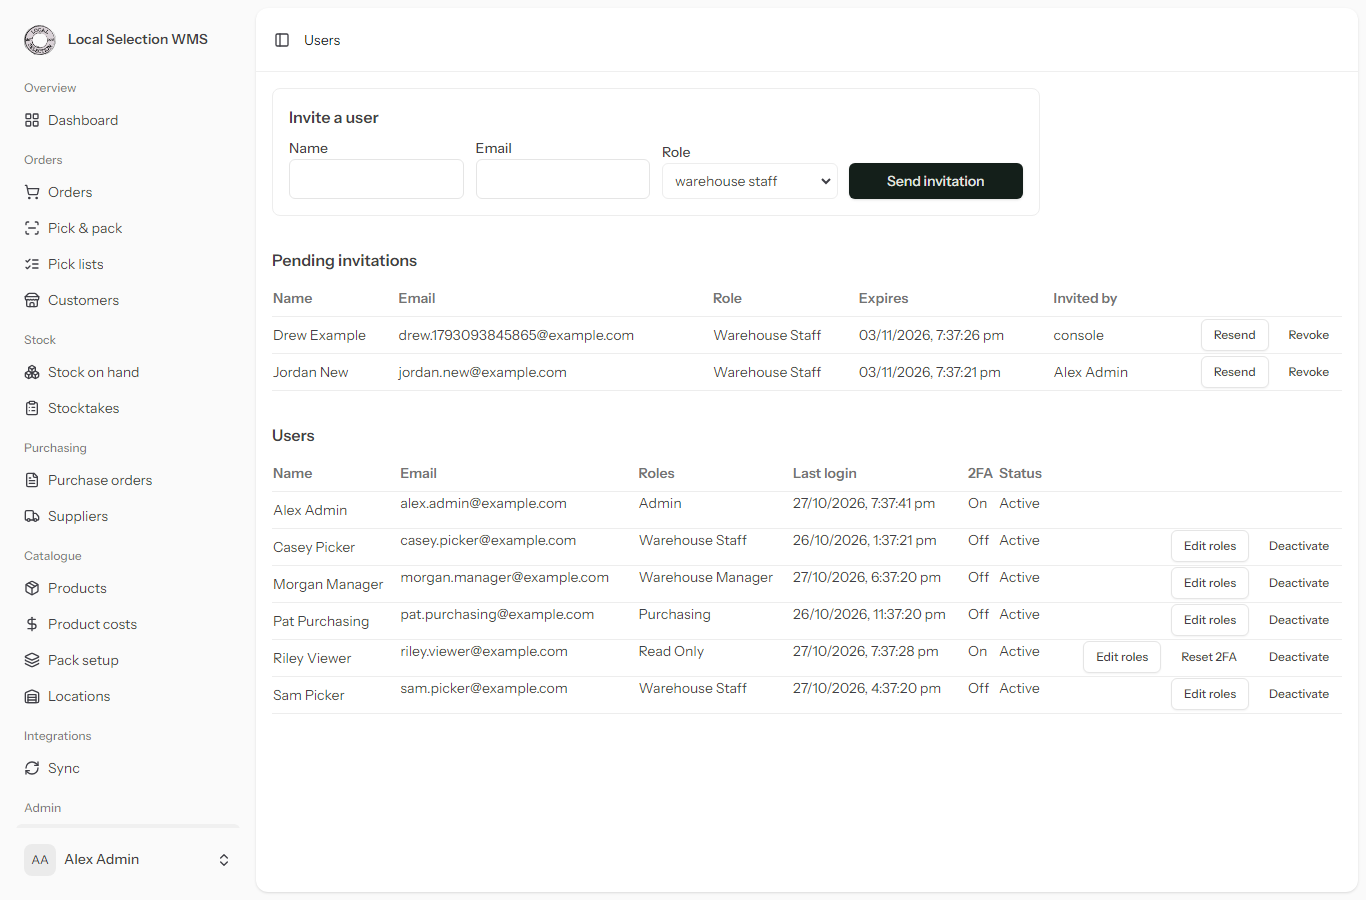
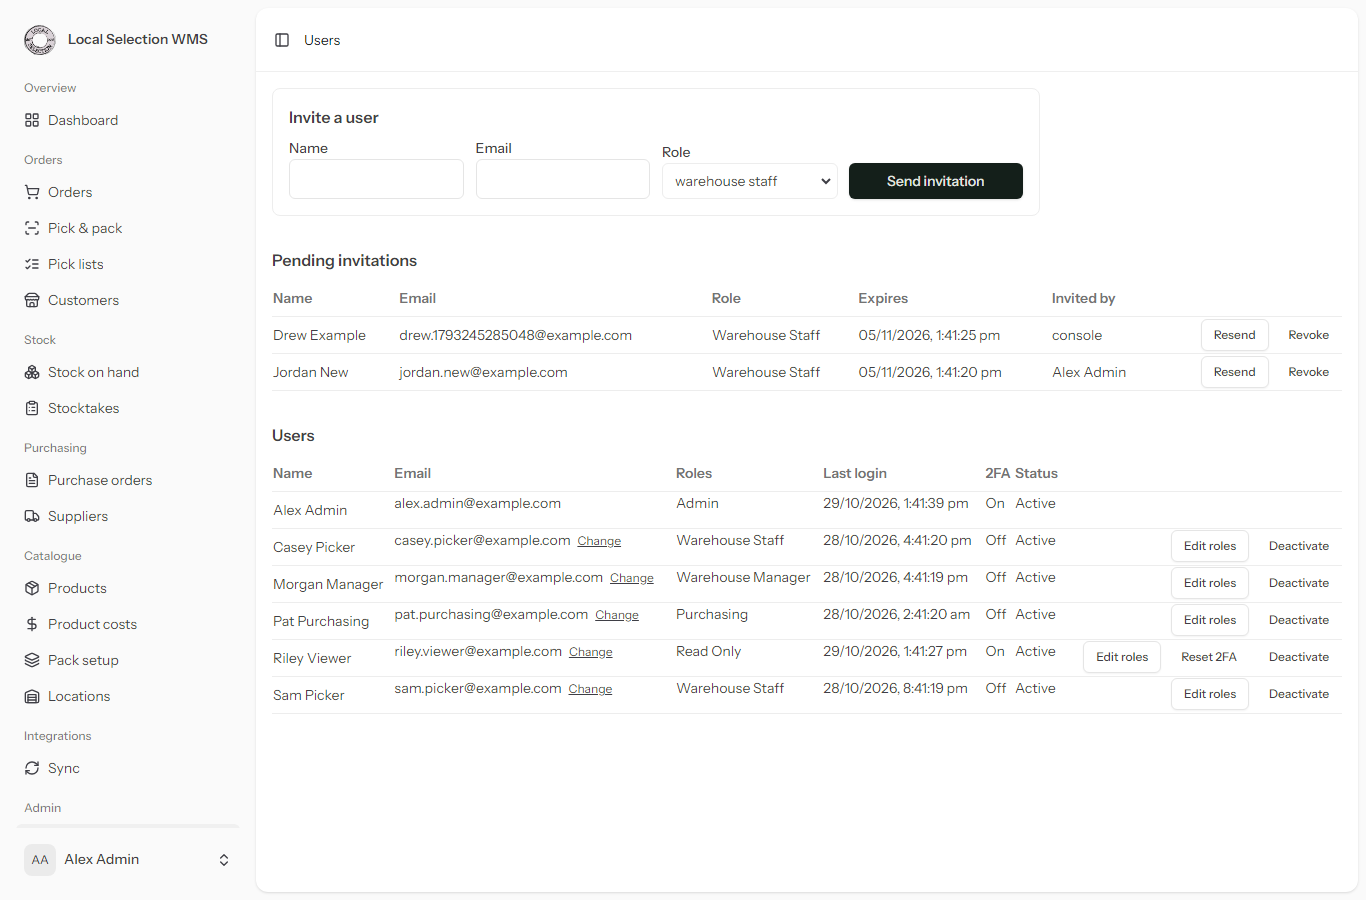
Manual: match the review fixes; screenshots retaken
Dashboard sync-failures tile, Reserved and Available on the stock
screens, confirmation dialogs on the Sync screen (with an example; the
capture script clicks each button and checks the dialog text), admin
email change, packed ticks, confirmed variant field. Demo data now
includes the failed sync attempts behind its push failure.

diff --git a/docs/manual/tools/demo-data.php b/docs/manual/tools/demo-data.php
@@ -29,6 +29,7 @@ use App\Models\Range;
 use App\Models\ReasonCode;
 use App\Models\Setting;
 use App\Models\Supplier;
+use App\Models\SyncAttempt;
 use App\Models\User;
 use App\Models\UserInvitation;
 use App\Services\Orders\ChannelOrderData;
@@ -323,6 +324,11 @@ $listing('ordermentum', $P['oj'], 0, ['enabled' => false, 'last_pushed_at' => nu
 $listing('portal', $P['tea'], 22);
 $listing('portal', $P['cup'], 74);
 $listing('portal', $P['kgin'], 2, ['enabled' => false]);
+// The two failed pushes behind the BFC-FULL-2L push failure (dashboard "Sync failures" tile)
+foreach ([2, 1] as $retry) {
+    SyncAttempt::create(['channel' => 'ordermentum', 'operation' => 'push', 'product_id' => $P['full']->id, 'response_code' => 422,
+        'success' => false, 'error' => 'quantity must be an integer (demo)', 'created_at' => now()->subHours($retry)]);
+}
 ChannelUnmappedVariant::create(['channel' => 'ordermentum', 'external_variant_id' => (string) Str::uuid(), 'external_sku' => 'HCB-MOCHA-250',
     'name' => 'Harbour Cold Brew Mocha 250 ml', 'occurrences' => 2]);
 $inbox = function (string $event, string $ext, string $status, ?string $error = null, ?string $sig = 'valid_hex', int $attempts = 1) {

diff --git a/docs/manual/USER-MANUAL.md b/docs/manual/USER-MANUAL.md
@@ -84,7 +84,7 @@ You can also enter counts in a stocktake a manager has started ([8.2](#82-count)
 | Task | Where | Section |
 |---|---|---|
 | Invite a user | **Users** → **Invite a user** | [13.1](#131-invite-a-user) |
-| Change someone's roles, or deactivate them | **Users** | [13.2](#132-change-roles-or-deactivate) |
+| Change someone's roles or email, or deactivate them | **Users** | [13.2](#132-change-roles-email-or-deactivate) |
 | Reset someone's two-factor | **Users** → **Reset 2FA** | [13.3](#133-reset-someones-two-factor) |
 | Edit company details and logo | **Company settings** | [13.4](#134-company-settings) |
 | Edit delivery areas | **Delivery areas** | [11.3](#113-edit-delivery-areas) |
@@ -179,7 +179,7 @@ Lost your phone? Click **Use a recovery code** and enter one of your saved codes
 
 Open your name (bottom left) → **Settings**.
 
-- **Profile:** change your display name. You can't change your email address yourself, and no screen lets an administrator change it either.
+- **Profile:** change your display name. To change your email address, ask an administrator ([13.2](#132-change-roles-email-or-deactivate)).
 - **Password:** change your password. You need your current one.
 - **Two-factor:** see [1.3](#13-set-up-two-factor-authentication).
 - **Appearance:** Light, Dark or System.
@@ -208,7 +208,7 @@ Each user has one or more roles. The menu on the left only shows what your roles
 | Pick & pack, pick lists, dispatch | ✓ | ✓ | ✓ | | |
 | Sync actions (push, retry, replay, map, enable) | ✓ | ✓ | | | |
 | See users and the audit log | ✓ | ✓ | | | |
-| Invite users, change roles, deactivate, reset 2FA | ✓ | | | | |
+| Invite users, change roles or email, deactivate, reset 2FA | ✓ | | | | |
 | Company settings, delivery areas | ✓ | | | | |
 
 ¹ Purchasing may accept over-receipts but can't open the receive screen. In practice, someone who can receive enters the delivery and a manager or admin ticks the box.
@@ -231,6 +231,7 @@ The dashboard is the first page after you log in. Each tile shows only if your r
 |---|---|---|
 | **Orders awaiting pick** | Orders that are open or partly dispatched. | Click it to open **Orders**. Pick them from **Pick & pack**. |
 | **Overdue purchase orders** | POs sent (or partly received) whose "Required by" date has passed. Red when above 0. | Chase the supplier, receive what arrived, or close the PO short ([6.5](#65-close-short-or-cancel)). |
+| **Sync failures (last 24 h)** | Ordermentum and portal stock pushes or order fetches that failed in the last 24 hours. Red when above 0. Shown if you can see the Sync screen. | Click it to open **Sync** and check **Push failures** and **Inbound events** ([12](#12-sync-screen-ordermentum-and-portal)). |
 | **Stock lines awaiting put-away** | Stock sitting in a receiving bin that isn't sellable. Only shows if your site receives into such a bin. | Move it to a sellable bin ([7.4](#74-move-stock-between-bins)). |
 | **Orders needing attention** | **Oversold:** accepted beyond available stock. **Review:** the channel changed the order while it was being picked. | Open the order and decide ([9.5](#95-oversold-and-review-flags)). |
 | **Bins to count** | Count tasks: a bin went below zero at dispatch, or a picker reported a short pick. "Times" counts how often it was raised. | Managers: **Start count** or **Dismiss** ([8.4](#84-count-tasks)). |
@@ -240,7 +241,7 @@ Warehouse staff see fewer tiles:
 
 ![Dashboard for warehouse staff](img/11-dashboard-staff.png)
 
-**Sync failures are not on the dashboard.** Check the **Sync** screen ([12](#12-sync-screen-ordermentum-and-portal)).
+Warehouse staff can't see the Sync screen, so they don't get the sync-failures tile.
 
 ---
 
@@ -467,19 +468,20 @@ Clicking **Post receipt** twice doesn't book the stock twice.
 |---|---|---|
 | **On hand** | Everything in every bin, including quarantine and expired batches. | Stock on hand, product stock page |
 | **Sellable** | On hand in sellable bins, not quarantine, not past best-before. | Stock on hand, product stock page |
-| **Reserved** | Promised to open orders, not yet dispatched. | Each order's lines |
-| **Available** | Sellable minus reserved. This is what Ordermentum and the portal are told. | Not shown on the stock screens |
+| **Reserved** | Promised to open orders, not yet dispatched. | Stock on hand, product stock page, each order's lines |
+| **Available** | Sellable minus reserved. This is what Ordermentum and the portal see. Can be negative after an oversold order. | Stock on hand, product stock page |
 
 Stock leaves the system at dispatch. Until then it's reserved.
 
 ### 7.2 Stock on hand
 
-**Stock → Stock on hand** lists every product with **On hand** and **Sellable** in base units.
+**Stock → Stock on hand** lists every product with **On hand**, **Sellable**, **Reserved** and **Available**, in base units. Hover over **Available** to see "What Ordermentum and the portal see".
 
 ![Stock on hand](img/50-stock-on-hand.png)
 
 - A **red** on-hand figure is below zero.
 - An **amber** sellable figure is at or below the product's reorder point.
+- A **red** available figure is below zero: more is promised to orders than you have to sell.
 
 Click **Detail** for one product:
 
@@ -774,7 +776,7 @@ When every line is picked, "All lines picked" shows. Tap **Go to packing**.
 
 For each order:
 
-1. Tick each line as it goes into the carton(s). You can't pack an order until all its lines are picked.
+1. Tick each line as it goes into the carton(s). You can't pack an order until all its lines are picked. Once an order is packed, its lines stay ticked and can't be changed.
 2. Enter the number of **Cartons**.
 3. Tap **Packed**. Who and when are recorded.
 4. Tap **Packing slip** to open an A5 PDF. Print it and put it in the carton.
@@ -851,7 +853,7 @@ For admins: **Admin → Delivery areas**.
 
 ![Sync screen](img/95-sync.png)
 
-> **⚠ Take care.** Buttons on this screen change what cafés see and can order on Ordermentum and the portal. They act straight away, without asking for confirmation. If you're not sure, ask an administrator first.
+> **⚠ Take care.** Buttons on this screen change what cafés see and can order on Ordermentum and the portal. Each one first asks you to confirm, and the message says what will happen and how many items it affects. Read it before clicking **OK**. If you're not sure, click **Cancel** and ask an administrator.
 
 ### 12.1 The switches
 
@@ -861,6 +863,7 @@ The four boxes at the top show:
 - **Order ingestion:** On or Off, and the last order applied.
 - **Failures (24h) / queue.**
 - **Listings enabled.**
+- **Variant field:** which field of an Ordermentum order line holds the product. It shows **(confirmed)** when it's the field checked on a live order. **(unconfirmed)** in amber means the server setting was changed: tell an administrator.
 
 The switches are set on the server by an administrator, not on this screen. While **Stock push** is Off, nothing is sent to Ordermentum, whatever the buttons below say.
 
@@ -888,11 +891,18 @@ A refused portal call may be for an order the portal already accepted while Loca
 
 ### 12.3 Risky actions (admins and managers)
 
+Every button below asks you to confirm first. The confirmation says what will happen and how many items it affects, and warns you if the server switch for that channel is off. For example, **Enable all** asks:
+
+> Switch on stock sync for every Ordermentum listing that is off?
+>
+> Affects 1 listing(s). Their current available figures are sent to Ordermentum straight away, and cafés see them.
+
 | Button | What it does | Risk |
 |---|---|---|
 | **Enable all** / **Enable all portal listings** | Switches stock sync on for every listing and queues a full push. | Every café sees new stock figures at once. |
 | Listing **on/off** | Starts or stops pushing stock for one product. | Off: the channel keeps its last figure and can oversell. |
-| **Push** / **Push now** / **Retry** / **Retry all** | Sends the current available figure. | Low if the figure is right; check stock first. |
+| **Push** / **Push now** / **Retry** | Sends the current available figure for one product. | Low if the figure is right; check stock first. |
+| **Retry all** | Sends the current available figure for every product with a push error, on Ordermentum and the portal. | As above, for all of them at once. |
 | **Replay** | Re-processes an Ordermentum order event. | Creates or changes that order and its reservation. |
 | **Map** | Links a channel item to a product and pack. Tick **push stock** to start pushing for it. | A wrong product or pack means wrong orders and wrong stock figures. |
 
@@ -902,7 +912,7 @@ A refused portal call may be for an order the portal already accepted while Loca
 2. Search for the product.
 3. Choose the pack the channel sells.
 4. Tick **push stock** only if its stock should be pushed now.
-5. Click **Confirm**.
+5. Click **Confirm**, check the message, and click **OK**.
 
 Held Ordermentum orders containing the item are processed again. The product's **Sold on** setting gains that channel.
 
@@ -925,11 +935,16 @@ The invitation is listed under **Pending invitations** until it's accepted. It e
 - **Resend** sends a new link.
 - **Revoke** cancels it.
 
-### 13.2 Change roles or deactivate
+### 13.2 Change roles, email or deactivate
 
 On the user's row:
 
 - **Edit roles:** tick the roles and click **Save**.
+- **Change** (next to the email): type the new address, click **Save**, and confirm. The person logs in with the new address straight away, and password resets go there. The change is recorded in the audit log as `email_changed` with the old and new address. No confirmation email is sent to the new address, so check it carefully.
+
+![Change a user's email](img/96b-user-email.png)
+
+You can't change your own email. Ask another admin.
 - **Deactivate:** the person is signed out at once and can't log in.
 - **Activate:** lets them back in.
 
@@ -1028,4 +1043,4 @@ Check the **Sync** screen ([12](#12-sync-screen-ordermentum-and-portal)) for pus
 No. Stock movements can't be edited or deleted. Post a correcting adjustment with the reason **Data-entry correction** ([7.3](#73-adjust-or-write-off-stock)).
 
 **How do I change my email address?**
-There's no screen for it. Ask an administrator.
+Ask an administrator. They change it on **Admin → Users** ([13.2](#132-change-roles-email-or-deactivate)).
